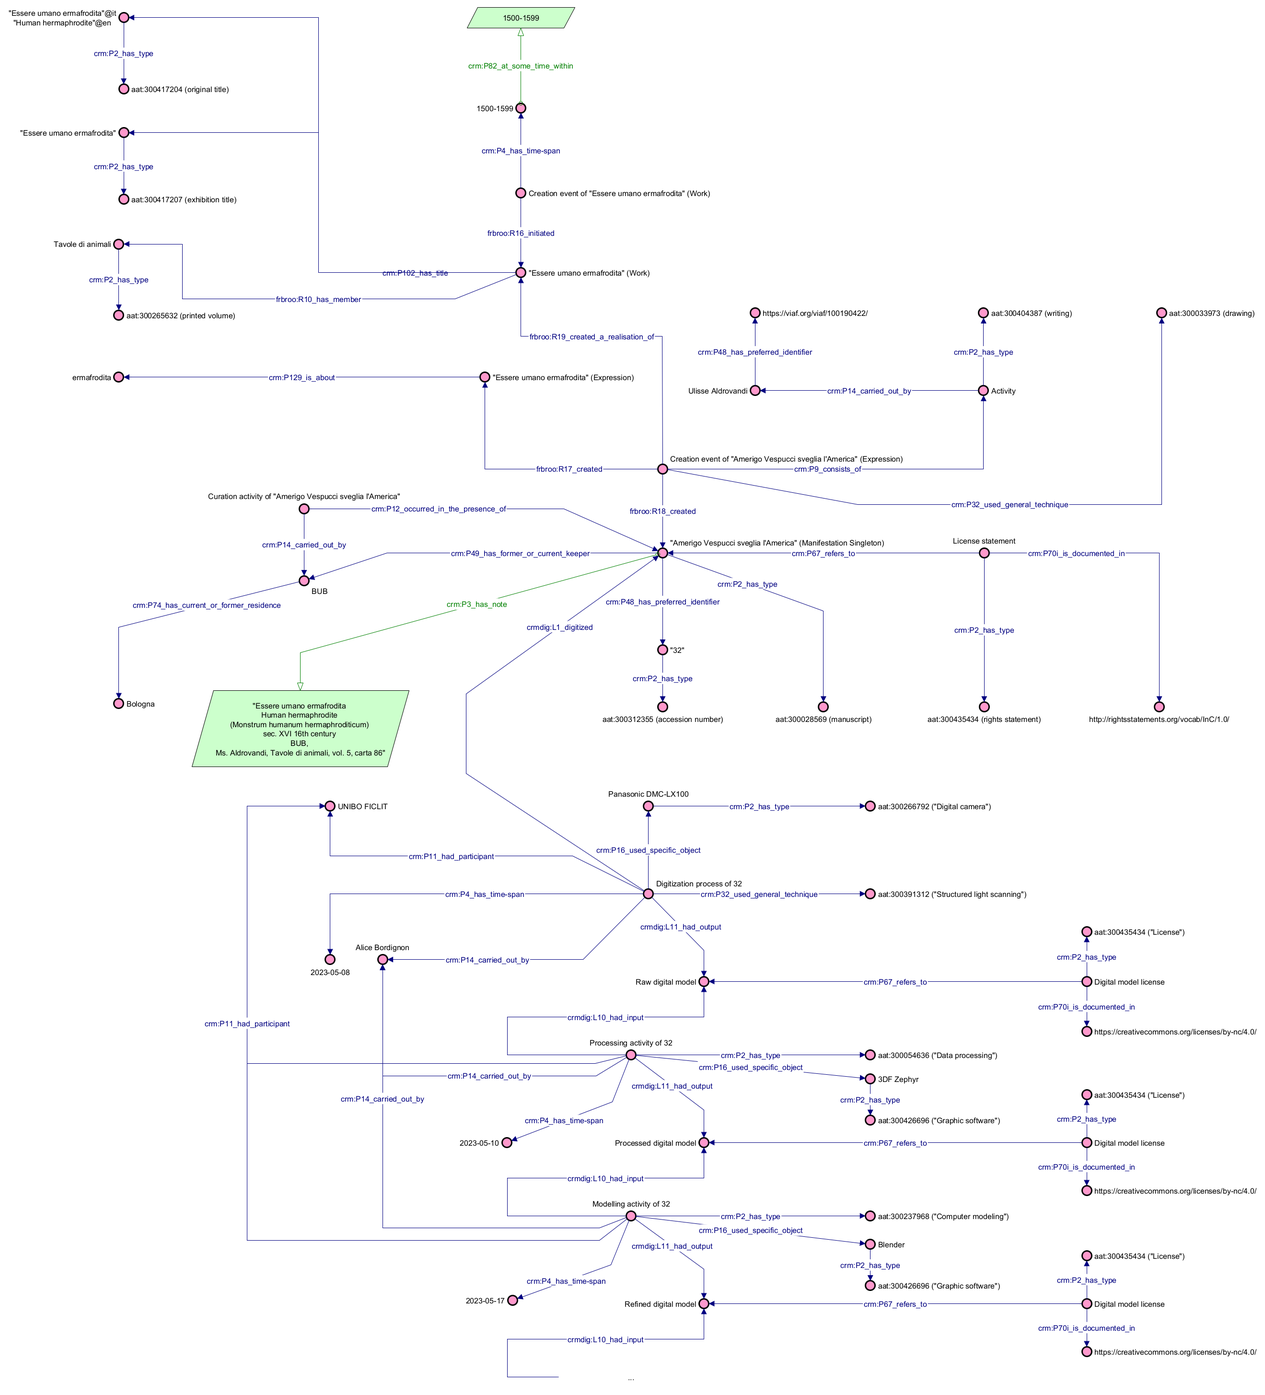
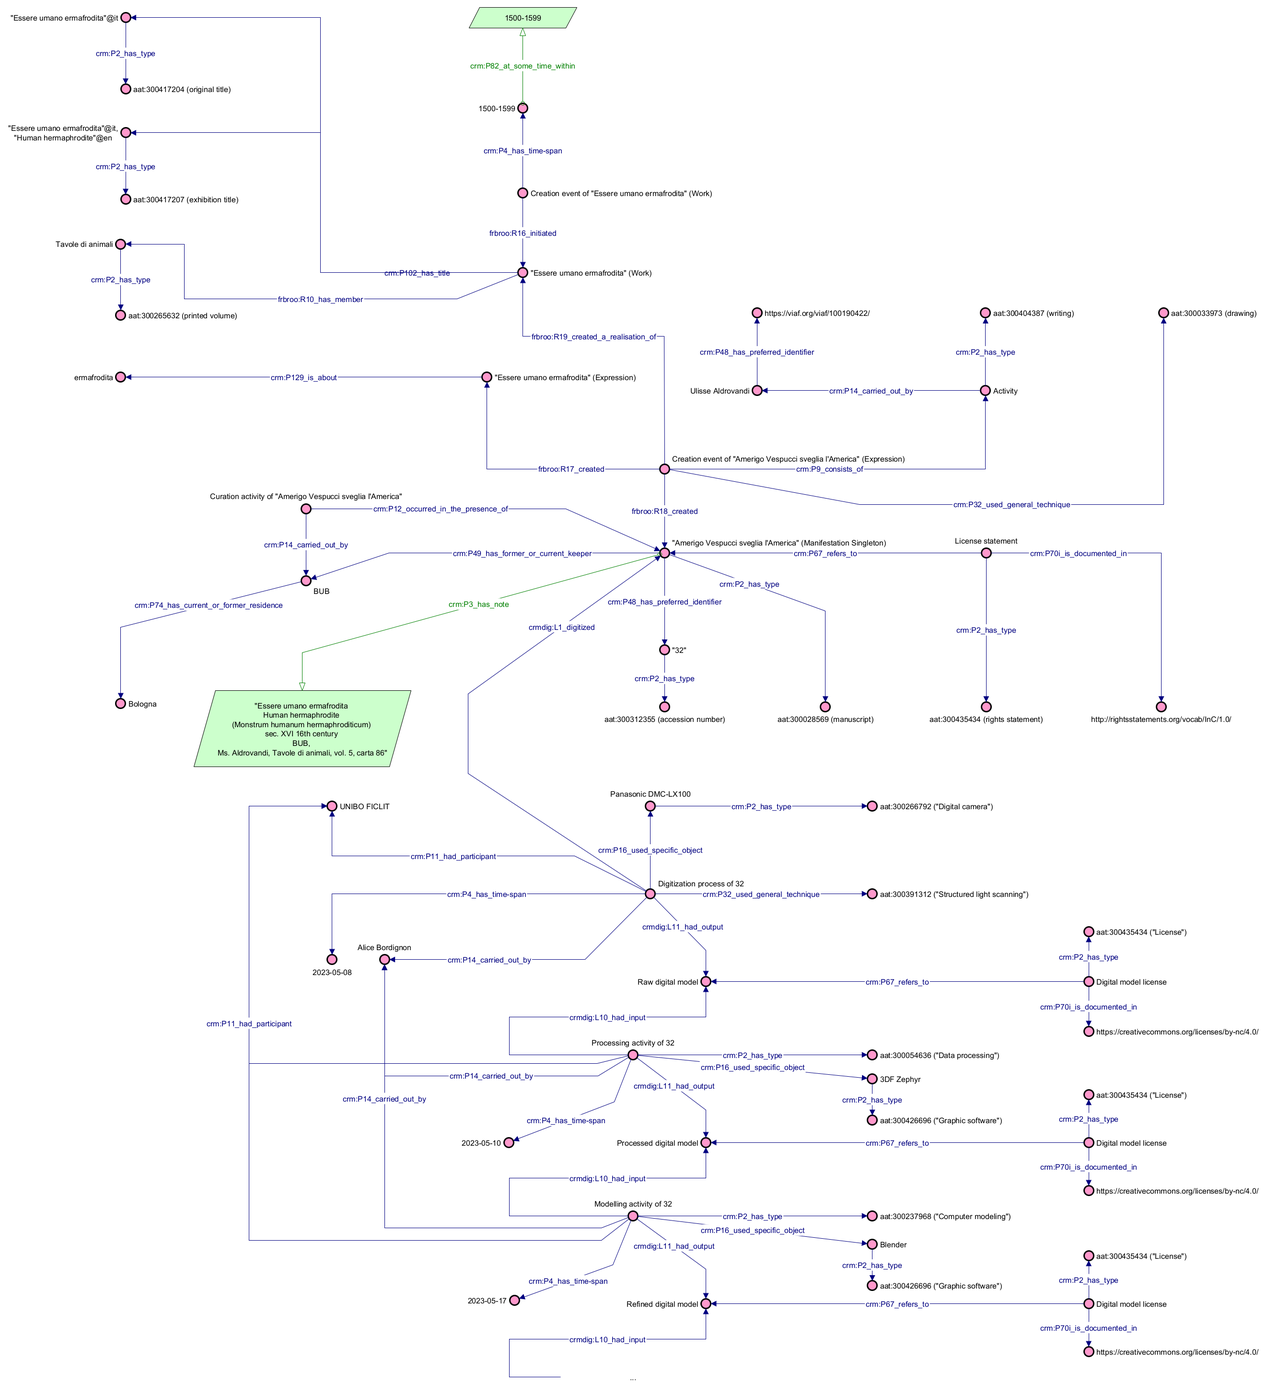
fix: fix original titles and exhibition titles

diff --git a/process/docs/current/crosswalk.md b/process/docs/current/crosswalk.md
@@ -2,32 +2,32 @@
 |--------------------------------------|---------------------------------------------------------------------------------------------------------------------------------------------------------------------------------------------------------------------------------------------------------------------------------------------------------------------------------------------------|
 | NR                                   | (part of URI)<br><br>`frbroo:F4_Manifestation_Singleton`<br>----`crm:P48_has_preferred_identifier`<br>--------`crm:E42_Identifier`<br>------------`crm:P2_has_type`<br>----------------`aat:300312355`                                                                                                                                            |
 | Link                              | ?                                                                                                                                                                                                                                                                                                                                                 |
-| Istituto responsabile acquisizione   | `crmdig:D2_Digitization_Process`<br>----`crmdig:L1_digitized`<br>--------`frbroo:F4_Manifestation_Singleton`<br>----`crm:P14_carried_out_by`<br>--------`crm:E74_Group`                                                                                                                                                                           |
-| Persone responsabili acquisizione    | `crmdig:D2_Digitization_Process`<br>----`crmdig:L1_digitized`<br>--------`frbroo:F4_Manifestation_Singleton`<br>----`crm:P11_has_participant`<br>--------`crm:E21_Person`                                                                                                                                                                         |
+| Istituto responsabile acquisizione   | `crmdig:D2_Digitization_Process`<br>----`crmdig:L1_digitized`<br>--------`frbroo:F4_Manifestation_Singleton`<br>----`crm:P11_has_participant`<br>--------`crm:E74_Group`                                                                                                                                                                           |
+| Persone responsabili acquisizione    | `crmdig:D2_Digitization_Process`<br>----`crmdig:L1_digitized`<br>--------`frbroo:F4_Manifestation_Singleton`<br>----`crm:P14_carried_out_by`<br>--------`crm:E21_Person`                                                                                                                                                                         |
 | Tecnica di acquisizione              | `crmdig:D2_Digitization_Process`<br>----`crmdig:L1_digitized`<br>--------`frbroo:F4_Manifestation_Singleton`<br>----`crm:P32_used_general_technique`<br>--------`crm:E55_Type`                                                                                                                                                                    |
 | Strumentazione di acquisizione       | `crmdig:D2_Digitization_Process`<br>----`crmdig:L1_digitized`<br>--------`frbroo:F4_Manifestation_Singleton`<br>----`crm:P16_used_specific_object`<br>--------`crm:E70_Thing`<br>------------`crm:P2_has_type`<br>----------------`crm:E55_Type`                                                                                                  |
-| Tempi di acquisizione                | `crmdig:D2_Digitization_Process`<br>----`crmdig:L1_digitized`<br>--------`frbroo:F4_Manifestation_Singleton`<br>----`crm:P4_has_time-span`<br>--------`crm:E52_Time-Span`<br>------------`crm:P82a_begin_of_the_begin`<br>----------------`rdfs:Literal`<br>------------`crm:P80:end_is_qualified_by`<br>----------------`rdfs:Literal` |
+| Tempi di acquisizione                | `crmdig:D2_Digitization_Process`<br>----`crmdig:L1_digitized`<br>--------`frbroo:F4_Manifestation_Singleton`<br>----`crm:P4_has_time-span`<br>--------`crm:E52_Time-Span`<br>------------`crm:P82a_begin_of_the_begin`<br>----------------`xsd:dateTime`<br>------------`crm:P80:end_is_qualified_by`<br>----------------`xsd:dateTime` |
 | Istituto responsabile processamento  | `crmdig:D10_Software_Execution`<br>----`crm:P2_has_type`<br>--------`aat:300054636`<br>----`crm:P14_carried_out_by`<br>--------`crm:E74_Group`                                                                                                                                                                                                  |
 | Persone responsabili processamento   | `crmdig:D10_Software_Execution`<br>----`crm:P2_has_type`<br>--------`aat:300054636`<br>----`crm:P11_has_participant`<br>--------`crm:E21_Person`                                                                                                                                                                                                |
 | Strumentazione di processamento      | `crmdig:D10_Software_Execution`<br>----`crm:P2_has_type`<br>--------`aat:300054636`<br>----`crmdig:L23_used_software_or_firmware`<br>--------`crmdig:D14_Software`<br>------------`crm:P2_has_type`<br>----------------`crm:E55_Type`                                                                                                           |
-| Tempi di processamento               | `crmdig:D10_Software_Execution`<br>----`crm:P2_has_type`<br>--------`aat:300054636`<br>----`crm:P4_has_time-span`<br>--------`crm:E52_Time-Span`<br>------------`crm:P82a_begin_of_the_begin`<br>----------------`rdfs:Literal`<br>------------`crm:P82b_end_of_the_end`<br>----------------`rdfs:Literal`                        |
+| Tempi di processamento               | `crmdig:D10_Software_Execution`<br>----`crm:P2_has_type`<br>--------`aat:300054636`<br>----`crm:P4_has_time-span`<br>--------`crm:E52_Time-Span`<br>------------`crm:P82a_begin_of_the_begin`<br>----------------`xsd:dateTime`<br>------------`crm:P82b_end_of_the_end`<br>----------------`xsd:dateTime`                        |
 | Istituto responsabile modellazione   | `crmdig:D10_Software_Execution`<br>----`crm:P2_has_type`<br>--------`aat:300237968`<br>----`crm:P14_carried_out_by`<br>--------`crm:E74_Group`                                                                                                                                                                                                   |
 | Persone responsabili modellazione    | `crmdig:D10_Software_Execution`<br>----`crm:P2_has_type`<br>--------`aat:300237968`<br>----`crm:P11_has_participant`<br>--------`crm:E21_Person`                                                                                                                                                                                                 |
 | Strumentazione di modellazione       | `crmdig:D10_Software_Execution`<br>----`crm:P2_has_type`<br>--------`aat:300237968`<br>----`crmdig:L23_used_software_or_firmware`<br>--------`crmdig:D14_Software`<br>------------`crm:P2_has_type`<br>----------------`crm:E55_Type`                                                                                                            |
-| Tempi di modellazione                | `crmdig:D10_Software_Execution`<br>----`crm:P2_has_type`<br>--------`aat:300237968`<br>----`crm:P4_has_time-span`<br>--------`crm:E52_Time-Span`<br>------------`crm:P82a_begin_of_the_begin`<br>----------------`rdfs:Literal`<br>------------`crm:P82b_end_of_the_end`<br>----------------`rdfs:Literal`                         |
+| Tempi di modellazione                | `crmdig:D10_Software_Execution`<br>----`crm:P2_has_type`<br>--------`aat:300237968`<br>----`crm:P4_has_time-span`<br>--------`crm:E52_Time-Span`<br>------------`crm:P82a_begin_of_the_begin`<br>----------------`xsd:dateTime`<br>------------`crm:P82b_end_of_the_end`<br>----------------`xsd:dateTime`                         |
 | Istituto responsabile ottimizzazione | `crmdig:D10_Software_Execution`<br>----`crm:P2_has_type`<br>--------`aat:300236367`<br>----`crm:P14_carried_out_by`<br>--------`crm:E74_Group`                                                                                                                                                                                                |
 | Persone responsabili ottimizzazione  | `crmdig:D10_Software_Execution`<br>----`crm:P2_has_type`<br>--------`aat:300236367`<br>----`crm:P11_has_participant`<br>--------`crm:E21_Person`                                                                                                                                                                                              |
 | Strumentazione di ottimizzazione     | `crmdig:D10_Software_Execution`<br>----`crm:P2_has_type`<br>--------`aat:300236367`<br>----`crmdig:L23_used_software_or_firmware`<br>--------`crmdig:D14_Software`<br>------------`crm:P2_has_type`<br>----------------`crm:E55_Type`                                                                                                         |
-| Tempi di ottimizzazione              | `crmdig:D10_Software_Execution`<br>----`crm:P2_has_type`<br>--------`aat:300236367`<br>----`crm:P4_has_time-span`<br>--------`crm:E52_Time-Span`<br>------------`crm:P82a_begin_of_the_begin`<br>----------------`rdfs:Literal`<br>------------`crm:P82b_end_of_the_end`<br>----------------`rdfs:Literal`                      |
+| Tempi di ottimizzazione              | `crmdig:D10_Software_Execution`<br>----`crm:P2_has_type`<br>--------`aat:300236367`<br>----`crm:P4_has_time-span`<br>--------`crm:E52_Time-Span`<br>------------`crm:P82a_begin_of_the_begin`<br>----------------`xsd:dateTime`<br>------------`crm:P82b_end_of_the_end`<br>----------------`xsd:dateTime`                      |
 | Istituto responsabile esportazione   | `crmdig:D10_Software_Execution`<br>----`crm:P2_has_type`<br>--------`aat:300417260`<br>----`crm:P14_carried_out_by`<br>--------`crm:E74_Group`                                                                                                                                                                                                      |
 | Persone responsabili esportazione    | `crmdig:D10_Software_Execution`<br>----`crm:P2_has_type`<br>--------`aat:300417260`<br>----`crm:P11_has_participant`<br>--------`crm:E21_Person`                                                                                                                                                                                                    |
 | Strumentazione di esportazione       | `crmdig:D10_Software_Execution`<br>----`crm:P2_has_type`<br>--------`aat:300417260`<br>----`crmdig:L23_used_software_or_firmware`<br>--------`crmdig:D14_Software`<br>------------`crm:P2_has_type`<br>----------------`crm:E55_Type`                                                                                                               |
-| Tempi di esportazione                | `crmdig:D10_Software_Execution`<br>----`crm:P2_has_type`<br>--------`aat:300417260`<br>----`crm:P4_has_time-span`<br>--------`crm:E52_Time-Span`<br>------------`crm:P82a_begin_of_the_begin`<br>----------------`rdfs:Literal`<br>------------`crm:P82b_end_of_the_end`<br>----------------`rdfs:Literal`                            |
+| Tempi di esportazione                | `crmdig:D10_Software_Execution`<br>----`crm:P2_has_type`<br>--------`aat:300417260`<br>----`crm:P4_has_time-span`<br>--------`crm:E52_Time-Span`<br>------------`crm:P82a_begin_of_the_begin`<br>----------------`xsd:dateTime`<br>------------`crm:P82b_end_of_the_end`<br>----------------`xsd:dateTime`                            |
 | Istituto responsabile metadatazione  | `crmdig:D10_Software_Execution`<br>----`crm:P2_has_type`<br>--------`aat:300054628`<br>----`crm:P14_carried_out_by`<br>--------`crm:E74_Group`                                                                                                                                                                                           |
 | Persone responsabili metadatazione   | `crmdig:D10_Software_Execution`<br>----`crm:P2_has_type`<br>--------`aat:300054628`<br>----`crm:P11_has_participant`<br>--------`crm:E21_Person`                                                                                                                                                                                         |
 | Strumentazione di metadatazione      | `crmdig:D10_Software_Execution`<br>----`crm:P2_has_type`<br>--------`aat:300054628`<br>----`crmdig:L23_used_software_or_firmware`<br>--------`crmdig:D14_Software`<br>------------`crm:P2_has_type`<br>----------------`crm:E55_Type`                                                                                                    |
-| Tempi di metadatazione               | `crmdig:D10_Software_Execution`<br>----`crm:P2_has_type`<br>--------`aat:300054628`<br>----`crm:P4_has_time-span`<br>--------`crm:E52_Time-Span`<br>------------`crm:P82a_begin_of_the_begin`<br>----------------`rdfs:Literal`<br>------------`crm:P82b_end_of_the_end`<br>----------------`rdfs:Literal`                 |
+| Tempi di metadatazione               | `crmdig:D10_Software_Execution`<br>----`crm:P2_has_type`<br>--------`aat:300054628`<br>----`crm:P4_has_time-span`<br>--------`crm:E52_Time-Span`<br>------------`crm:P82a_begin_of_the_begin`<br>----------------`xsd:dateTime`<br>------------`crm:P82b_end_of_the_end`<br>----------------`xsd:dateTime`                 |
 | Istituto responsabile caricamento    | `crmdig:D10_Software_Execution`<br>----`crm:P2_has_type`<br>--------`aat:300155365`<br>----`crm:P14_carried_out_by`<br>--------`crm:E74_Group`                                                                                                                                                                                                      |
 | Persone responsabili caricamento     | `crmdig:D10_Software_Execution`<br>----`crm:P2_has_type`<br>--------`aat:300155365`<br>----`crm:P11_has_participant`<br>--------`crm:E21_Person`                                                                                                                                                                                                    |
 | Strumentazione di caricamento        | `crmdig:D10_Software_Execution`<br>----`crm:P2_has_type`<br>--------`aat:300155365`<br>----`crmdig:L23_used_software_or_firmware`<br>--------`crmdig:D14_Software`<br>------------`crm:P2_has_type`<br>----------------`crm:E55_Type`                                                                                                               |
-| Tempi di caricamento                 | `crmdig:D10_Software_Execution`<br>----`crm:P2_has_type`<br>--------`aat:300155365`<br>----`crm:P4_has_time-span`<br>--------`crm:E52_Time-Span`<br>------------`crm:P82a_begin_of_the_begin`<br>----------------`rdfs:Literal`<br>------------`crm:P82b_end_of_the_end`<br>----------------`rdfs:Literal`                            |
+| Tempi di caricamento                 | `crmdig:D10_Software_Execution`<br>----`crm:P2_has_type`<br>--------`aat:300155365`<br>----`crm:P4_has_time-span`<br>--------`crm:E52_Time-Span`<br>------------`crm:P82a_begin_of_the_begin`<br>----------------`xsd:dateTime`<br>------------`crm:P82b_end_of_the_end`<br>----------------`xsd:dateTime`                            |

diff --git a/object/docs/current/crosswalk.md b/object/docs/current/crosswalk.md
@@ -7,9 +7,9 @@
 | **Technique**                          | `frbroo:F28_Expression_Creation`<br>----`crm:P32_used_general_technique`<br>--------`crm:E55_Type`                                                                                                                                                                                                                                                                                                                                     |
 | **In-exhibition object type** | `frbroo:F4_Manifestation_Singleton`<br>----`crm:P62_depicts`<br>--------`frbroo:F4_Manifestation_Singleton`<br>----`crm:P2_has_type`<br>--------`crm:E55_Type`                                                                                                                                                                                                                                                                         |
 | **Subjects**                         | `frbroo:F2_Expression`<br>----`crm:P129_is_about`<br>--------`crm:E73_Information_Object`<br>------------`crm:P2_has_type`<br>----------------`aat:300404126`                                                                                                                                                                                                                                                                                                                                               |
-| **Original title**                 | `frbroo:F1_Work`<br>----`crm:P102_has_title`<br>--------`crm:E35_Title`<br>------------`crm:P2_has_type`<br>----------------`aat:300417204`<br>------------`crm:P190_has_symbolic_content`<br><br>**Different languages**<br><br>----------------`rdfs:Literal`@ISO_639_Set-1_language_code                                                                                                                                                                                                                                                                                                                                                             |
-| **Museum title**                   | `frbroo:F1_Work`<br>----`crm:P102_has_title`<br>--------`crm:E35_Title`<br>------------`crm:P2_has_type`<br>----------------`aat:300417207`                                                                                                                                                                                                                                                                                                                                            |
-| **Date**                             | `frbroo:F27_Work_Conception`<br>----`crm:P4_has_time-span`<br>--------`crm:P82a_begin_of_the_begin`<br>------------`rdfs:Literal`<br>--------`crm:P82b_end_of_the_end`<br>------------`rdfs:Literal`                                                                                                                                                                                                                     |
+| **Original title**                 | `frbroo:F1_Work`<br>----`crm:P102_has_title`<br>--------`crm:E35_Title`<br>------------`crm:P2_has_type`<br>----------------`aat:300417204`<br>------------`crm:P190_has_symbolic_content`                                                                                                                                                                                                                                                                                                                                                             |
+| **Museum title**                   | `frbroo:F1_Work`<br>----`crm:P102_has_title`<br>--------`crm:E35_Title`<br>------------`crm:P2_has_type`<br>----------------`aat:300417207`<br>------------`crm:P190_has_symbolic_content`<br><br>**Different languages**<br><br>----------------`rdfs:Literal`@ISO_639_Set-1_language_code                                                                                                                                                                                                                                                                                                                                            |
+| **Date**                             | `frbroo:F27_Work_Conception`<br>----`crm:P4_has_time-span`<br><br>**Fuzzy date**<br><br>--------`crm:P82_at_some_time_within`<br>------------`rdfs:Literal`<br><br>**Defined start and end dates**<br><br>--------`crm:P82a_begin_of_the_begin`<br>------------`xsd:dateTime`<br>--------`crm:P82b_end_of_the_end`<br>------------`xsd:dateTime`                                                                                                                                                                                                                     |
 | **Discoverer**                       | `frbroo:F28_Expression_Creation`<br>----`crm:P9_consists_of`<br>--------`crm:E7_Activity`<br>------------`crm:P14_carried_out_by`<br>----------------`crm:E39_Actor`<br>------------`crm:P2_has_type`<br>----------------`aat:300404386`                                                                                                                                                                                               |
 | **Author**                           | `frbroo:F28_Expression_Creation`<br>----`crm:P9_consists_of`<br>--------`crm:E7_Activity`<br>------------`crm:P14_carried_out_by`<br>----------------`crm:E39_Actor`<br>------------`crm:P2_has_type`<br>----------------`aat:300404387`                                                                                                                                                                                               |
 | **Translator**                       | `frbroo:F28_Expression_Creation`<br>----`crm:P9_consists_of`<br>--------`crm:E7_Activity`<br>------------`crm:P14_carried_out_by`<br>----------------`crm:E39_Actor`<br>------------`crm:P2_has_type`<br>----------------`aat:300069831`                                                                                                                                                                                               |

diff --git a/docs/examples/example-01/scenario.md b/docs/examples/example-01/scenario.md
@@ -1,7 +1,7 @@
 # Example 1: 32 (*Essere umano ermafrodita*)
 
 This object can be represented as follows:
-* at the FRBR level of Work, the object has been initiated by a work conception within a time period that spans from 1500 to 1599. The work has also three titles: "Essere umano ermafrodita" (exhibition title), "Essere umano ermafrodita" and "Human hermaphrodite" (original titles in Italian and English, respectively). Finally, it is part of the print volume "Tavole di animali".
+* at the FRBR level of Work, the object has been initiated by a work conception within a time period that spans from 1500 to 1599. The work has also three titles: "Essere umano ermafrodita" and "Human hermaphrodite" (exhibition titles in Italian and English, respectively), and "Essere umano ermafrodita" (original title). Finally, it is part of the print volume "Tavole di animali".
 * at the FRBR level of Expression, the object has been created in a creation event by using "drawing" as a technique. The event consists in an authorship activity carried out by Ulisse Aldrovandi. "ermafrodita" is its main subject.
 * at the FRBR level of Manifestation Singleton, the object has been involved in a curation activity carried out by BUB (located in Bologna). Moreover, the Manifestation is characterized by having three identifiers ("32" as the collection ID, "5" as the volume number and "Ms. Aldrovandi, Tavole di animali, vol. 5, carta 86" as the shelf mark), a description, and a type (manuscript).
 
